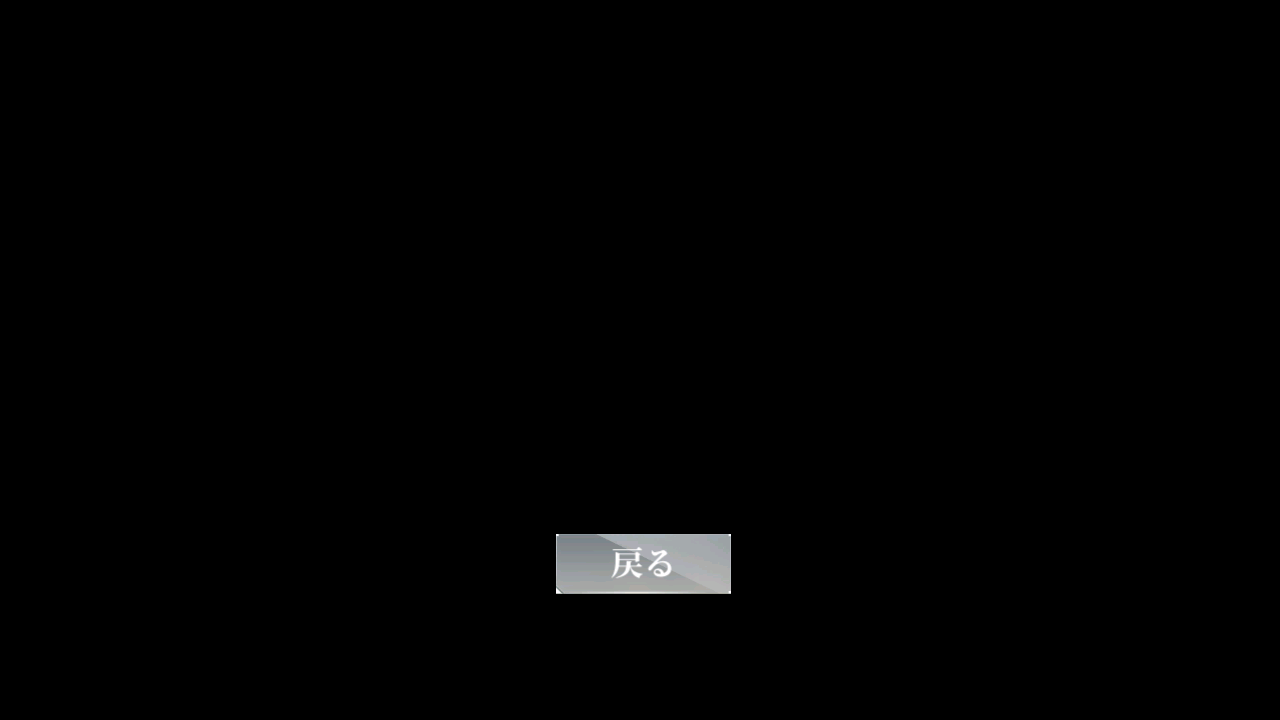
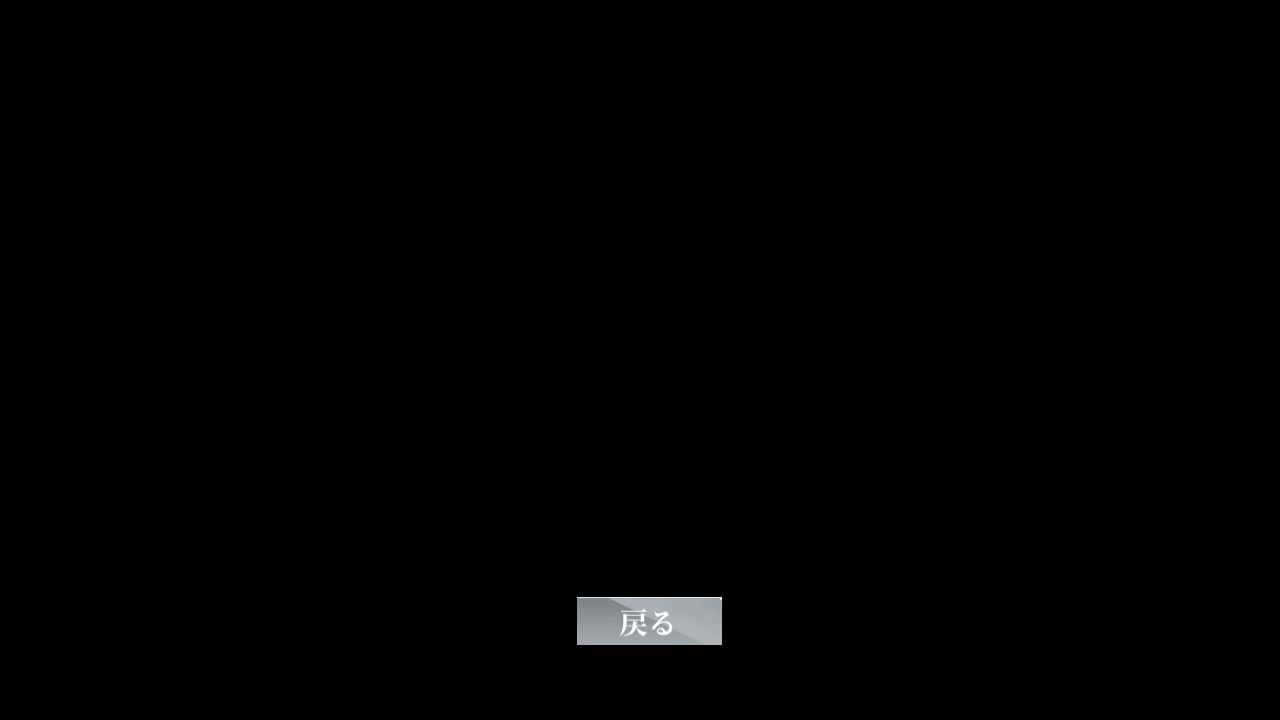
Fix: [JP] update asset AUTO_SEARCH_REWARD

Changed region(s): [[0.4375, 0.7333, 0.5938, 0.9167]]

diff --git a/module/os_handler/assets.py b/module/os_handler/assets.py
@@ -11,7 +11,7 @@ ACTION_POINT_USE = Button(area={'cn': (738, 528, 910, 585), 'en': (742, 531, 909
 ASH_POPUP_CHECK = Button(area={'cn': (352, 249, 928, 479), 'en': (352, 228, 926, 462), 'jp': (362, 351, 920, 411), 'tw': (376, 368, 902, 396)}, color={'cn': (107, 117, 135), 'en': (125, 129, 139), 'jp': (120, 107, 119), 'tw': (134, 105, 119)}, button={'cn': (352, 249, 928, 479), 'en': (352, 228, 926, 462), 'jp': (362, 351, 920, 411), 'tw': (376, 368, 902, 396)}, file={'cn': './assets/cn/os_handler/ASH_POPUP_CHECK.png', 'en': './assets/en/os_handler/ASH_POPUP_CHECK.png', 'jp': './assets/jp/os_handler/ASH_POPUP_CHECK.png', 'tw': './assets/tw/os_handler/ASH_POPUP_CHECK.png'})
 AUTO_SEARCH_OS_MAP_OPTION_OFF = Button(area={'cn': (1205, 549, 1275, 566), 'en': (1196, 574, 1273, 586), 'jp': (1204, 572, 1276, 593), 'tw': (1205, 549, 1275, 566)}, color={'cn': (196, 169, 169), 'en': (154, 135, 141), 'jp': (180, 154, 157), 'tw': (196, 169, 169)}, button={'cn': (1205, 549, 1275, 566), 'en': (1196, 574, 1273, 586), 'jp': (1204, 572, 1276, 593), 'tw': (1205, 549, 1275, 566)}, file={'cn': './assets/cn/os_handler/AUTO_SEARCH_OS_MAP_OPTION_OFF.png', 'en': './assets/en/os_handler/AUTO_SEARCH_OS_MAP_OPTION_OFF.png', 'jp': './assets/jp/os_handler/AUTO_SEARCH_OS_MAP_OPTION_OFF.png', 'tw': './assets/cn/os_handler/AUTO_SEARCH_OS_MAP_OPTION_OFF.png'})
 AUTO_SEARCH_OS_MAP_OPTION_ON = Button(area={'cn': (1205, 549, 1275, 566), 'en': (1198, 576, 1275, 588), 'jp': (1205, 573, 1275, 592), 'tw': (1205, 549, 1275, 566)}, color={'cn': (149, 176, 193), 'en': (116, 139, 160), 'jp': (145, 172, 190), 'tw': (149, 176, 193)}, button={'cn': (1205, 549, 1275, 566), 'en': (1198, 576, 1275, 588), 'jp': (1205, 573, 1275, 592), 'tw': (1205, 549, 1275, 566)}, file={'cn': './assets/cn/os_handler/AUTO_SEARCH_OS_MAP_OPTION_ON.png', 'en': './assets/en/os_handler/AUTO_SEARCH_OS_MAP_OPTION_ON.png', 'jp': './assets/jp/os_handler/AUTO_SEARCH_OS_MAP_OPTION_ON.png', 'tw': './assets/cn/os_handler/AUTO_SEARCH_OS_MAP_OPTION_ON.png'})
-AUTO_SEARCH_REWARD = Button(area={'cn': (558, 535, 730, 592), 'en': (563, 537, 725, 591), 'jp': (556, 534, 731, 594), 'tw': (558, 535, 730, 592)}, color={'cn': (163, 166, 170), 'en': (167, 170, 174), 'jp': (166, 169, 171), 'tw': (163, 166, 170)}, button={'cn': (558, 535, 730, 592), 'en': (563, 537, 725, 591), 'jp': (556, 534, 731, 594), 'tw': (558, 535, 730, 592)}, file={'cn': './assets/cn/os_handler/AUTO_SEARCH_REWARD.png', 'en': './assets/en/os_handler/AUTO_SEARCH_REWARD.png', 'jp': './assets/jp/os_handler/AUTO_SEARCH_REWARD.png', 'tw': './assets/cn/os_handler/AUTO_SEARCH_REWARD.png'})
+AUTO_SEARCH_REWARD = Button(area={'cn': (558, 535, 730, 592), 'en': (563, 537, 725, 591), 'jp': (577, 597, 722, 645), 'tw': (558, 535, 730, 592)}, color={'cn': (163, 166, 170), 'en': (167, 170, 174), 'jp': (165, 170, 175), 'tw': (163, 166, 170)}, button={'cn': (558, 535, 730, 592), 'en': (563, 537, 725, 591), 'jp': (577, 597, 722, 645), 'tw': (558, 535, 730, 592)}, file={'cn': './assets/cn/os_handler/AUTO_SEARCH_REWARD.png', 'en': './assets/en/os_handler/AUTO_SEARCH_REWARD.png', 'jp': './assets/jp/os_handler/AUTO_SEARCH_REWARD.png', 'tw': './assets/cn/os_handler/AUTO_SEARCH_REWARD.png'})
 CLICK_SAFE_AREA = Button(area={'cn': (1104, 169, 1214, 284), 'en': (1104, 169, 1214, 284), 'jp': (1104, 169, 1214, 284), 'tw': (1104, 169, 1214, 284)}, color={'cn': (96, 114, 142), 'en': (96, 114, 142), 'jp': (96, 114, 142), 'tw': (96, 114, 142)}, button={'cn': (1104, 169, 1214, 284), 'en': (1104, 169, 1214, 284), 'jp': (1104, 169, 1214, 284), 'tw': (1104, 169, 1214, 284)}, file={'cn': './assets/cn/os_handler/CLICK_SAFE_AREA.png', 'en': './assets/en/os_handler/CLICK_SAFE_AREA.png', 'jp': './assets/jp/os_handler/CLICK_SAFE_AREA.png', 'tw': './assets/tw/os_handler/CLICK_SAFE_AREA.png'})
 GET_ADAPTABILITY = Button(area={'cn': (538, 191, 742, 227), 'en': (548, 191, 742, 215), 'jp': (538, 191, 743, 227), 'tw': (538, 191, 742, 227)}, color={'cn': (166, 195, 246), 'en': (194, 207, 225), 'jp': (158, 190, 245), 'tw': (166, 195, 246)}, button={'cn': (538, 191, 742, 227), 'en': (548, 191, 742, 215), 'jp': (538, 191, 743, 227), 'tw': (538, 191, 742, 227)}, file={'cn': './assets/cn/os_handler/GET_ADAPTABILITY.png', 'en': './assets/en/os_handler/GET_ADAPTABILITY.png', 'jp': './assets/jp/os_handler/GET_ADAPTABILITY.png', 'tw': './assets/tw/os_handler/GET_ADAPTABILITY.png'})
 GET_MEOWFFICER_ITEMS_1 = Button(area={'cn': (558, 211, 730, 242), 'en': (550, 211, 723, 247), 'jp': (538, 217, 732, 253), 'tw': (558, 211, 730, 242)}, color={'cn': (186, 200, 231), 'en': (165, 191, 241), 'jp': (143, 180, 249), 'tw': (186, 200, 231)}, button={'cn': (558, 211, 730, 242), 'en': (550, 211, 723, 247), 'jp': (538, 217, 732, 253), 'tw': (558, 211, 730, 242)}, file={'cn': './assets/cn/os_handler/GET_MEOWFFICER_ITEMS_1.png', 'en': './assets/en/os_handler/GET_MEOWFFICER_ITEMS_1.png', 'jp': './assets/jp/os_handler/GET_MEOWFFICER_ITEMS_1.png', 'tw': './assets/tw/os_handler/GET_MEOWFFICER_ITEMS_1.png'})
